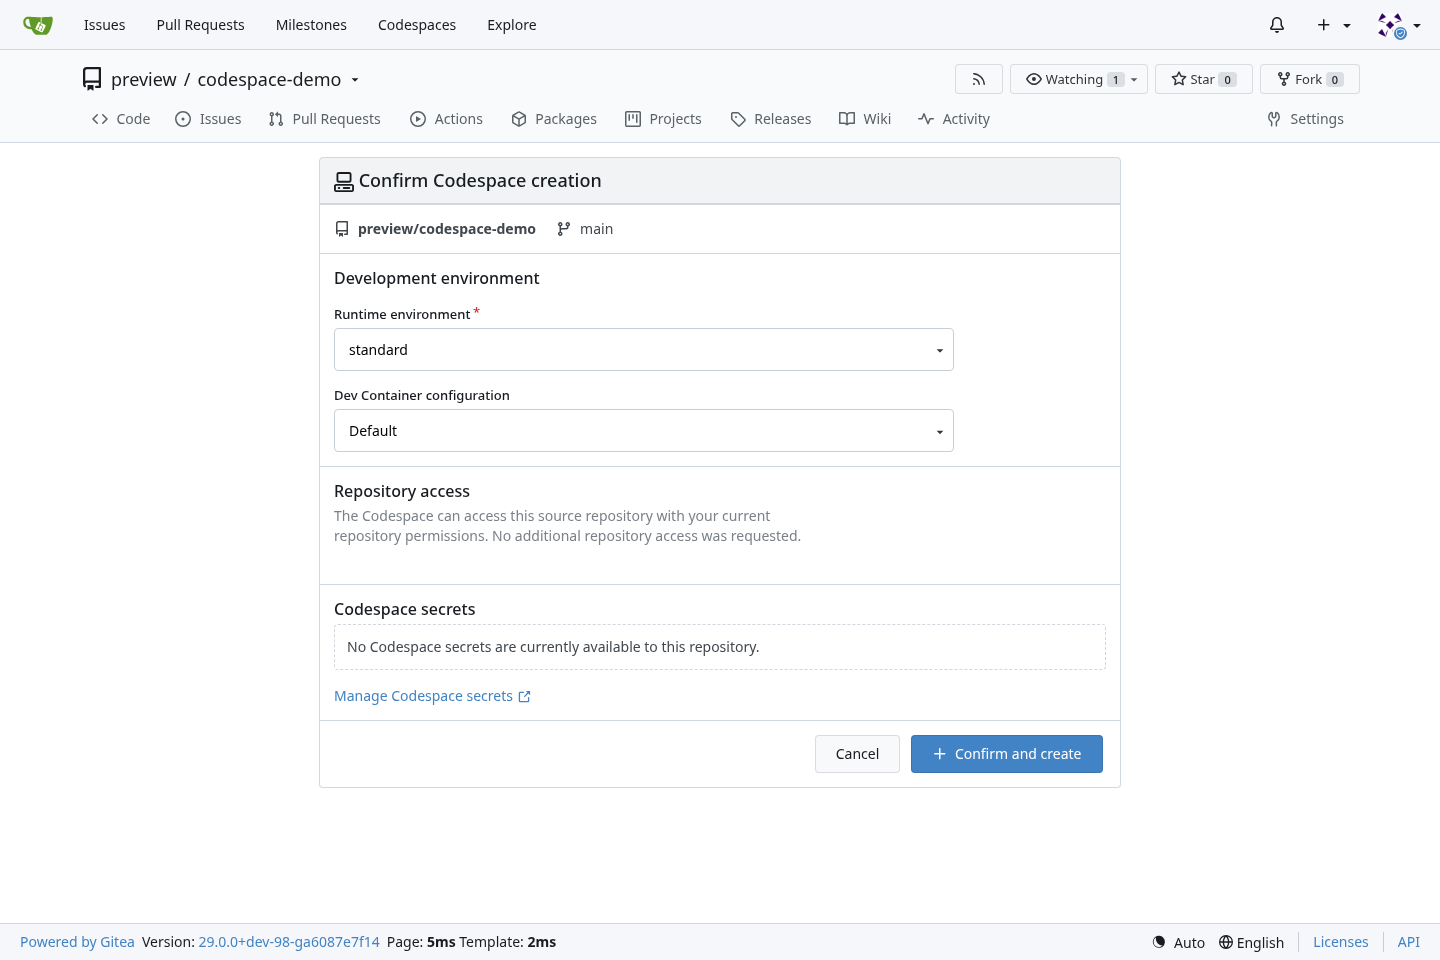
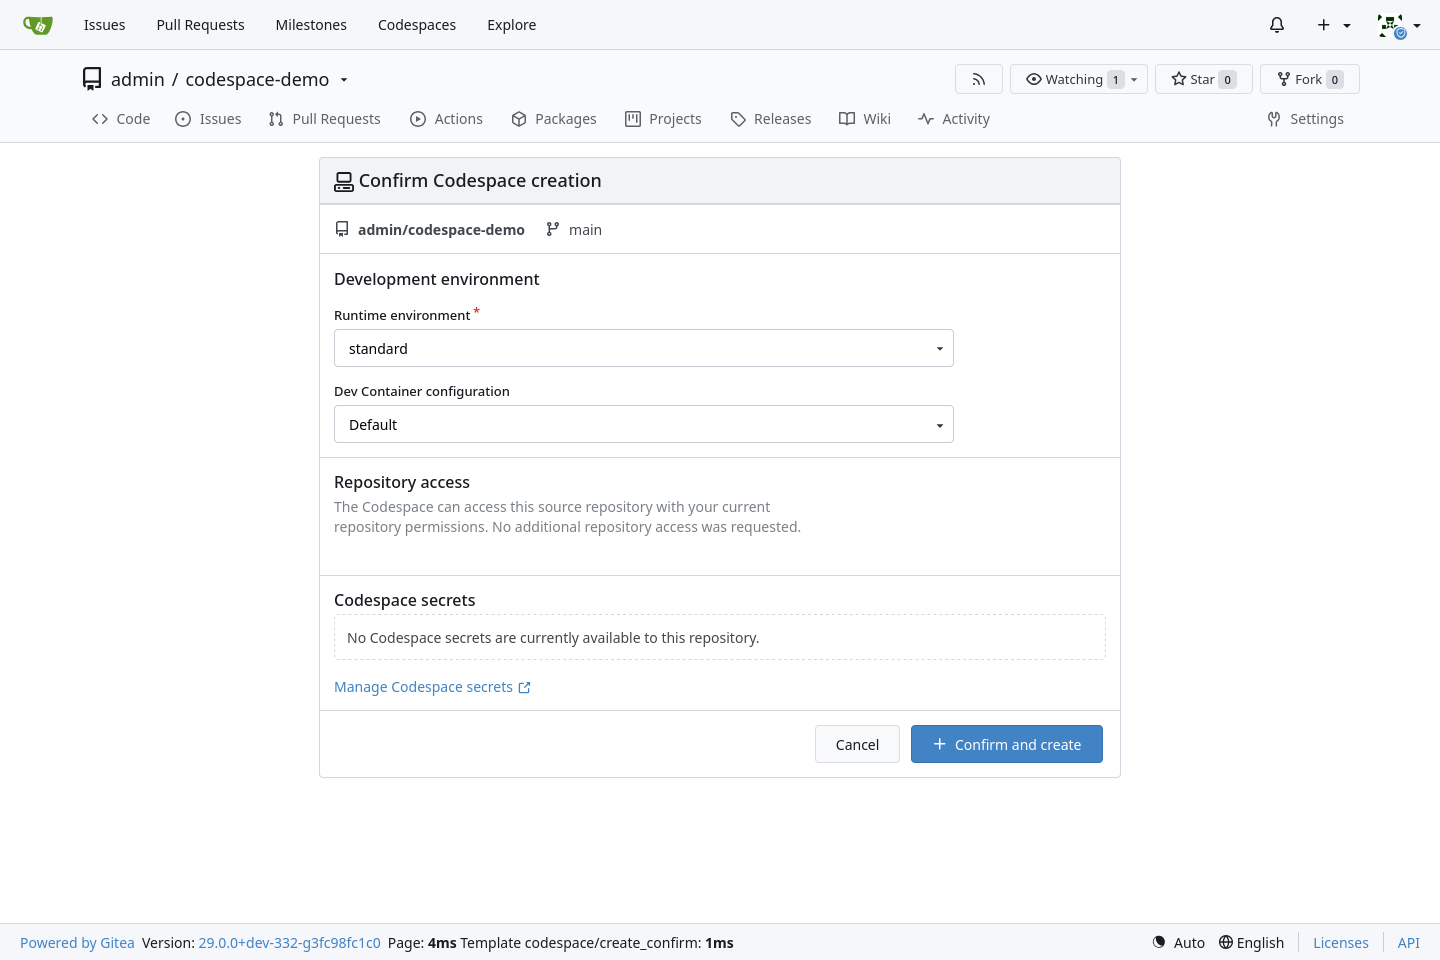
feat: register Gitea sites with Manager tokens
Advance the Codespace runtime and protocol to the scoped Manager registration flow, refresh the PR screenshots, and document token ownership, credential storage, RPC authentication, and failure recovery.

Assisted-by: Codex: GPT-5

diff --git a/src/codespace/deployment-requirements.md b/src/codespace/deployment-requirements.md
@@ -60,7 +60,7 @@ Manager 维护安装级内部 CA，并直接为 Manager、Agent、Gateway 和 Ca
 
 根 CA 有效期为 10 年，用于保持安装恢复所需的信任边界；签发 CA 有效期为 1 年并提前 30 天轮换，用于减少长期在线私钥的暴露范围；工作负载证书有效期为 24 小时并提前 8 小时轮换，使短期控制面故障仍有恢复窗口。轮换只更新 Secret 或 Manager 内存中的证书，Pod 模板不包含证书内容摘要，因此普通轮换不会重建正在运行的工作负载。
 
-内部 CA 保存在管理命名空间的 Kubernetes Secret 中。Manager 首次启动时通过 Kubernetes API 原子创建，多个副本读取同一份结果；随后 Manager 使用内存服务器证书启动内部双向 TLS 接口。CA Secret 缺失但已经存在受管资源时，Manager 要求从备份恢复，而不是生成新的信任根。生产集群需要为 Secret 启用静态数据加密，并把内部 CA、管理员令牌、Gitea 注册 Secret、Gateway SSH 主机密钥、对象存储凭据和镜像凭据纳入备份与轮换。
+内部 CA 保存在管理命名空间的 Kubernetes Secret 中。Manager 首次启动时通过 Kubernetes API 原子创建，多个副本读取同一份结果；随后 Manager 使用内存服务器证书启动内部双向 TLS 接口。CA Secret 缺失但已经存在受管资源时，Manager 要求从备份恢复，而不是生成新的信任根。生产集群需要为 Secret 启用静态数据加密，并把内部 CA、管理员令牌、各 Gitea 站点的 Manager 运行密钥、Gateway SSH 主机密钥、对象存储凭据和镜像凭据纳入备份与轮换。Gitea 范围注册令牌保存在 Gitea 数据库，不属于 Kubernetes 备份。
 
 证书 URI 使用同一信任域并直接表达资源身份：Manager 使用 `spiffe://codespace/manager/<management-namespace-uid>`，Agent 使用 `spiffe://codespace/agent/<site-uid>/<codespace-uid>/<pod-uid>`，Gateway 和 Cache 分别使用 `spiffe://codespace/gateway/<component-uid>` 与 `spiffe://codespace/cache/<component-uid>`。管理命名空间、站点、Codespace、Pod 或组件同名重建后会获得新的 Kubernetes UID，因此旧证书不能代表新资源。URI 的构造和解析由同一个身份模块完成，使签发方、Manager、Agent 和 Gateway 使用完全相同的路径结构。
 

diff --git a/pr/README.md b/pr/README.md
@@ -4,9 +4,9 @@ Gitea owns authorization and lifecycle state. A separately deployed [Codespace M
 
 ## Screenshots
 
-![Codespace creation review](https://raw.githubusercontent.com/ExplodingDragon/gitea-dev/main/pr/codespace-create.png)
-![Codespace Manager administration](https://raw.githubusercontent.com/ExplodingDragon/gitea-dev/main/pr/codespace-managers.png)
-![Codespace Web IDE](https://raw.githubusercontent.com/ExplodingDragon/gitea-dev/main/pr/codespace-web-ide.png?v=22db4df)
+![Codespace creation review](https://raw.githubusercontent.com/ExplodingDragon/gitea-dev/main/pr/codespace-create.png?v=20261104)
+![Codespace Manager administration](https://raw.githubusercontent.com/ExplodingDragon/gitea-dev/main/pr/codespace-managers.png?v=20261104)
+![Codespace Web IDE](https://raw.githubusercontent.com/ExplodingDragon/gitea-dev/main/pr/codespace-web-ide.png?v=20261104)
 
 Close https://github.com/go-gitea/gitea/issues/27766
 Close https://github.com/go-gitea/gitea/issues/33904
